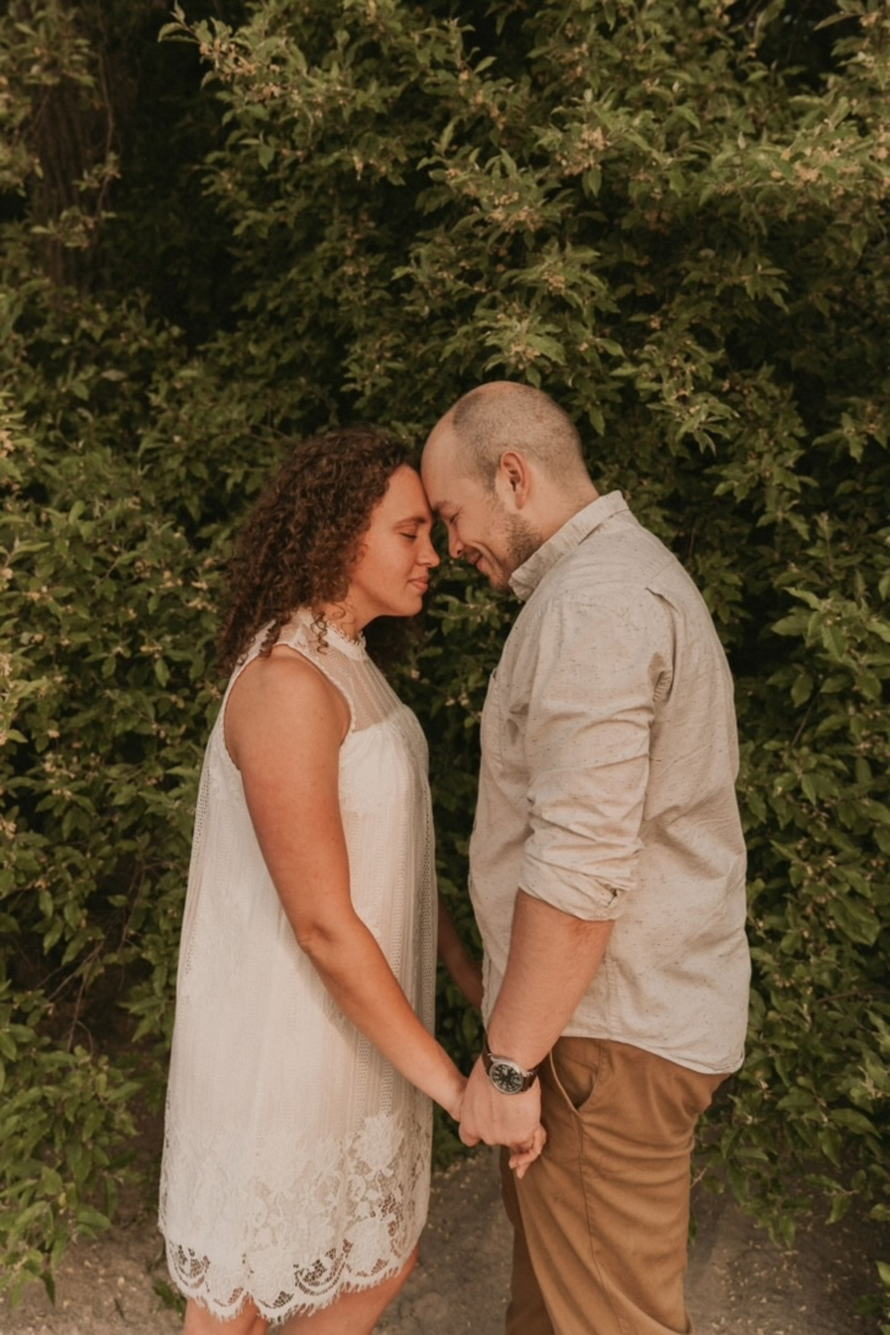
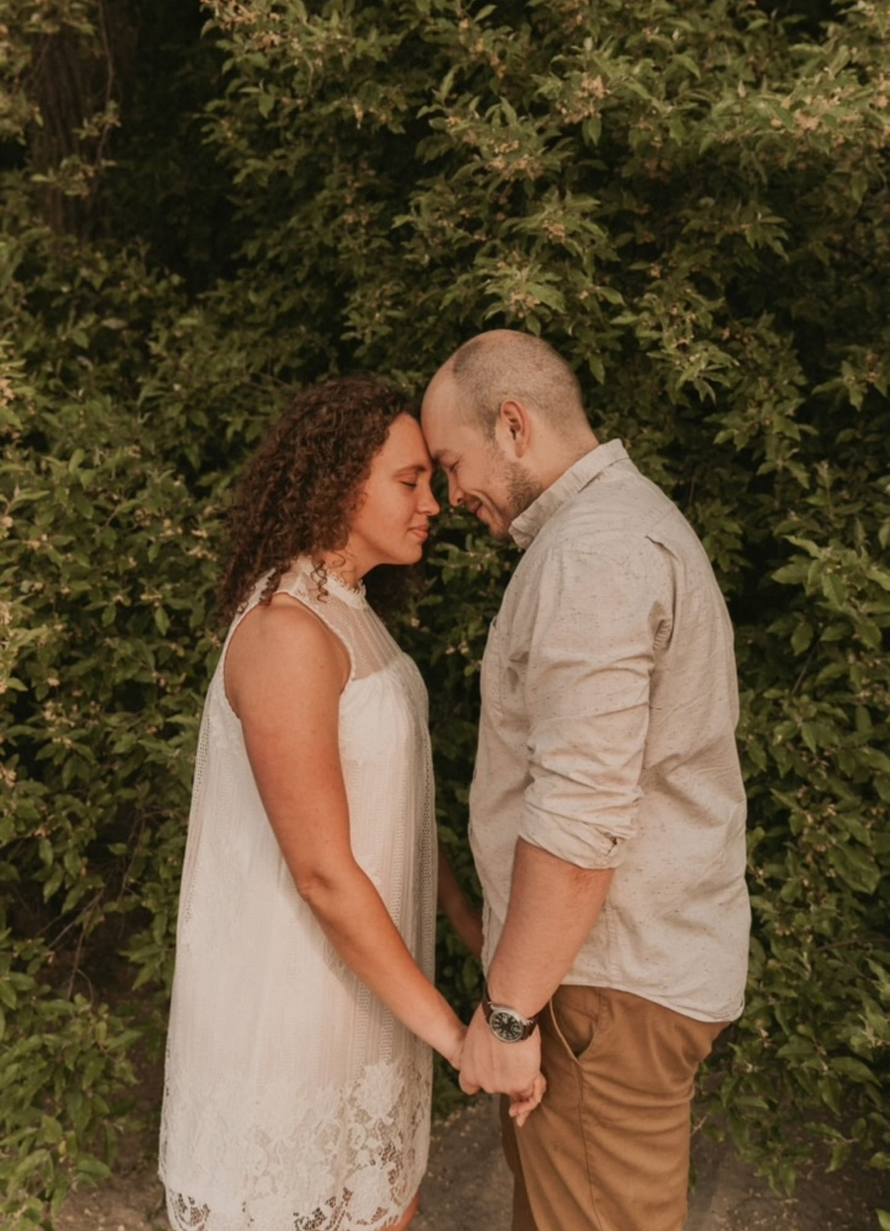
Account for more screen sizes on the rsvp page
I did 2 things:
* I attempted to crop the image so that it fits better on most common
computers.
* I removed the `object-contain` line to allow for image stretching. I
  thought this was a better tradeoff than having whitespace around the
  image in some cases. For the most part, there won't be any scaling b/c
  I have various dimensions covered correctly but this covers all the
  bases

I also fixed the "mobile" view on larger devices, the form will always
be centered.

diff --git a/rsvp.html b/rsvp.html
@@ -3,8 +3,8 @@ layout: rsvp
 active: rsvp
 ---
 
-<div class="w-full grid grid-cols-1 lg:h-full lg:grid-cols-2 xl:grid-cols-[1fr_1.5fr]" id="rsvp-page">
-  <div class="h-full blur-none bg-[url('/assets/rsvp.jpg')] bg-no-repeat bg-[length:100%_100%] lg:bg-contain">
+<div class="w-full grid grid-cols-1 lg:h-full lg:grid-cols-2 xl:grid-cols-[1.2fr_1.5fr] 2xl:grid-cols-[1fr_1.5fr] justify-center items-center" id="rsvp-page">
+  <div class="h-full blur-none bg-[url('/assets/rsvp.jpg')] bg-no-repeat bg-[length:100%_100%]">
   </div>
 
   <div class="absolute top-0 bottom-0 left-0 right-0 backdrop-blur-lg lg:hidden" id="rsvp-mobile-pane-1">
@@ -13,36 +13,36 @@ active: rsvp
   <div class="absolute top-0 bottom-0 left-0 right-0 bg-white opacity-50 lg:hidden" id="rsvp-mobile-pane-2">
   </div>
 
-  <section class="absolute lg:static lg:overflow-scroll" id="rsvp-form">
+  <section class="w-full absolute lg:w-auto lg:static lg:overflow-scroll" id="rsvp-form">
     <div class="flex justify-center items-center min-h-full">
     <div class="p-8 lg:p-12 xl:p-8 max-w-[600px] flex flex-col justify-center items-center">
       <header class="text-center mb-10">
-        <h1 class="text-4xl font-bold mb-3">Malayna & Stephen</h1>
+        <h1 class="text-3xl md:text-4xl font-bold mb-2 md:mb-3">Malayna & Stephen</h1>
         <p>May 25, 2024</p>
       </header>
 
-      <p class="text-center mb-12">
+      <p class="text-sm text-center mb-12 md:text-base">
         The ceremony and reception will be held at<br />
-        <strong class="font-bold">The Harro East Ballroom in Rochester, NY at 5PM</strong>
+        <strong class="text-base font-bold">The Harro East Ballroom in Rochester, NY at 5PM</strong>
       </p>
 
       <form class="w-full" action="https://submit-form.com/6W4EHSdB">
         <div class="mb-8">
-          <label class="font-bold mb-2" for="email">Email</label>
+          <label class="font-bold mb-2 text-sm md:text-base" for="email">Email</label>
           <input id="email" name="email" type="email" class="bg-white w-full my-1.5 rounded-sm p-2 border" required />
-          <span class="text-xs italic">We'll be sending updates as the wedding gets closer.</span>
+          <span class="text-xs italic leading-3">We'll be sending updates as the wedding gets closer.</span>
         </div>
 
         <div class="mb-8">
-          <label for="attendees" class="font-bold mb-2">Who will be attending</label>
+          <label for="attendees" class="font-bold mb-2 text-sm md:text-base">Who will be attending</label>
           <input id="attendees" name="attendees" type="text" class="w-full my-1.5 rounded-sm p-2 border" required />
-          <span class="text-xs italic">Please include full names of all guests planning to attend, including children.</span>
+          <span class="text-xs italic leading-3">Please include full names of all guests planning to attend, including children.</span>
         </div>
 
         <div class="mb-8">
-          <label for="restrictions" class="font-bold mb-2">Dietary Restrictions</label>
-          <textarea id="restrictions" name="restrictions" rows="3" class="w-full my-1.5 rounded-sm p-2 border" required></textarea>
-          <span class="text-xs italic">Please include serious allergies and dietary restrictions (vegetarian, gluten free, etc.)</span>
+          <label for="restrictions" class="font-bold mb-2 text-sm md:text-base">Dietary Restrictions</label>
+          <textarea id="restrictions" name="restrictions" rows="2" class="w-full my-1 rounded-sm p-2 border md:my-1.5" required></textarea>
+          <span class="text-xs italic leading-3">Please include serious allergies and dietary restrictions (vegetarian, gluten free, etc.)</span>
         </div>
 
         <div class="mb-8">
